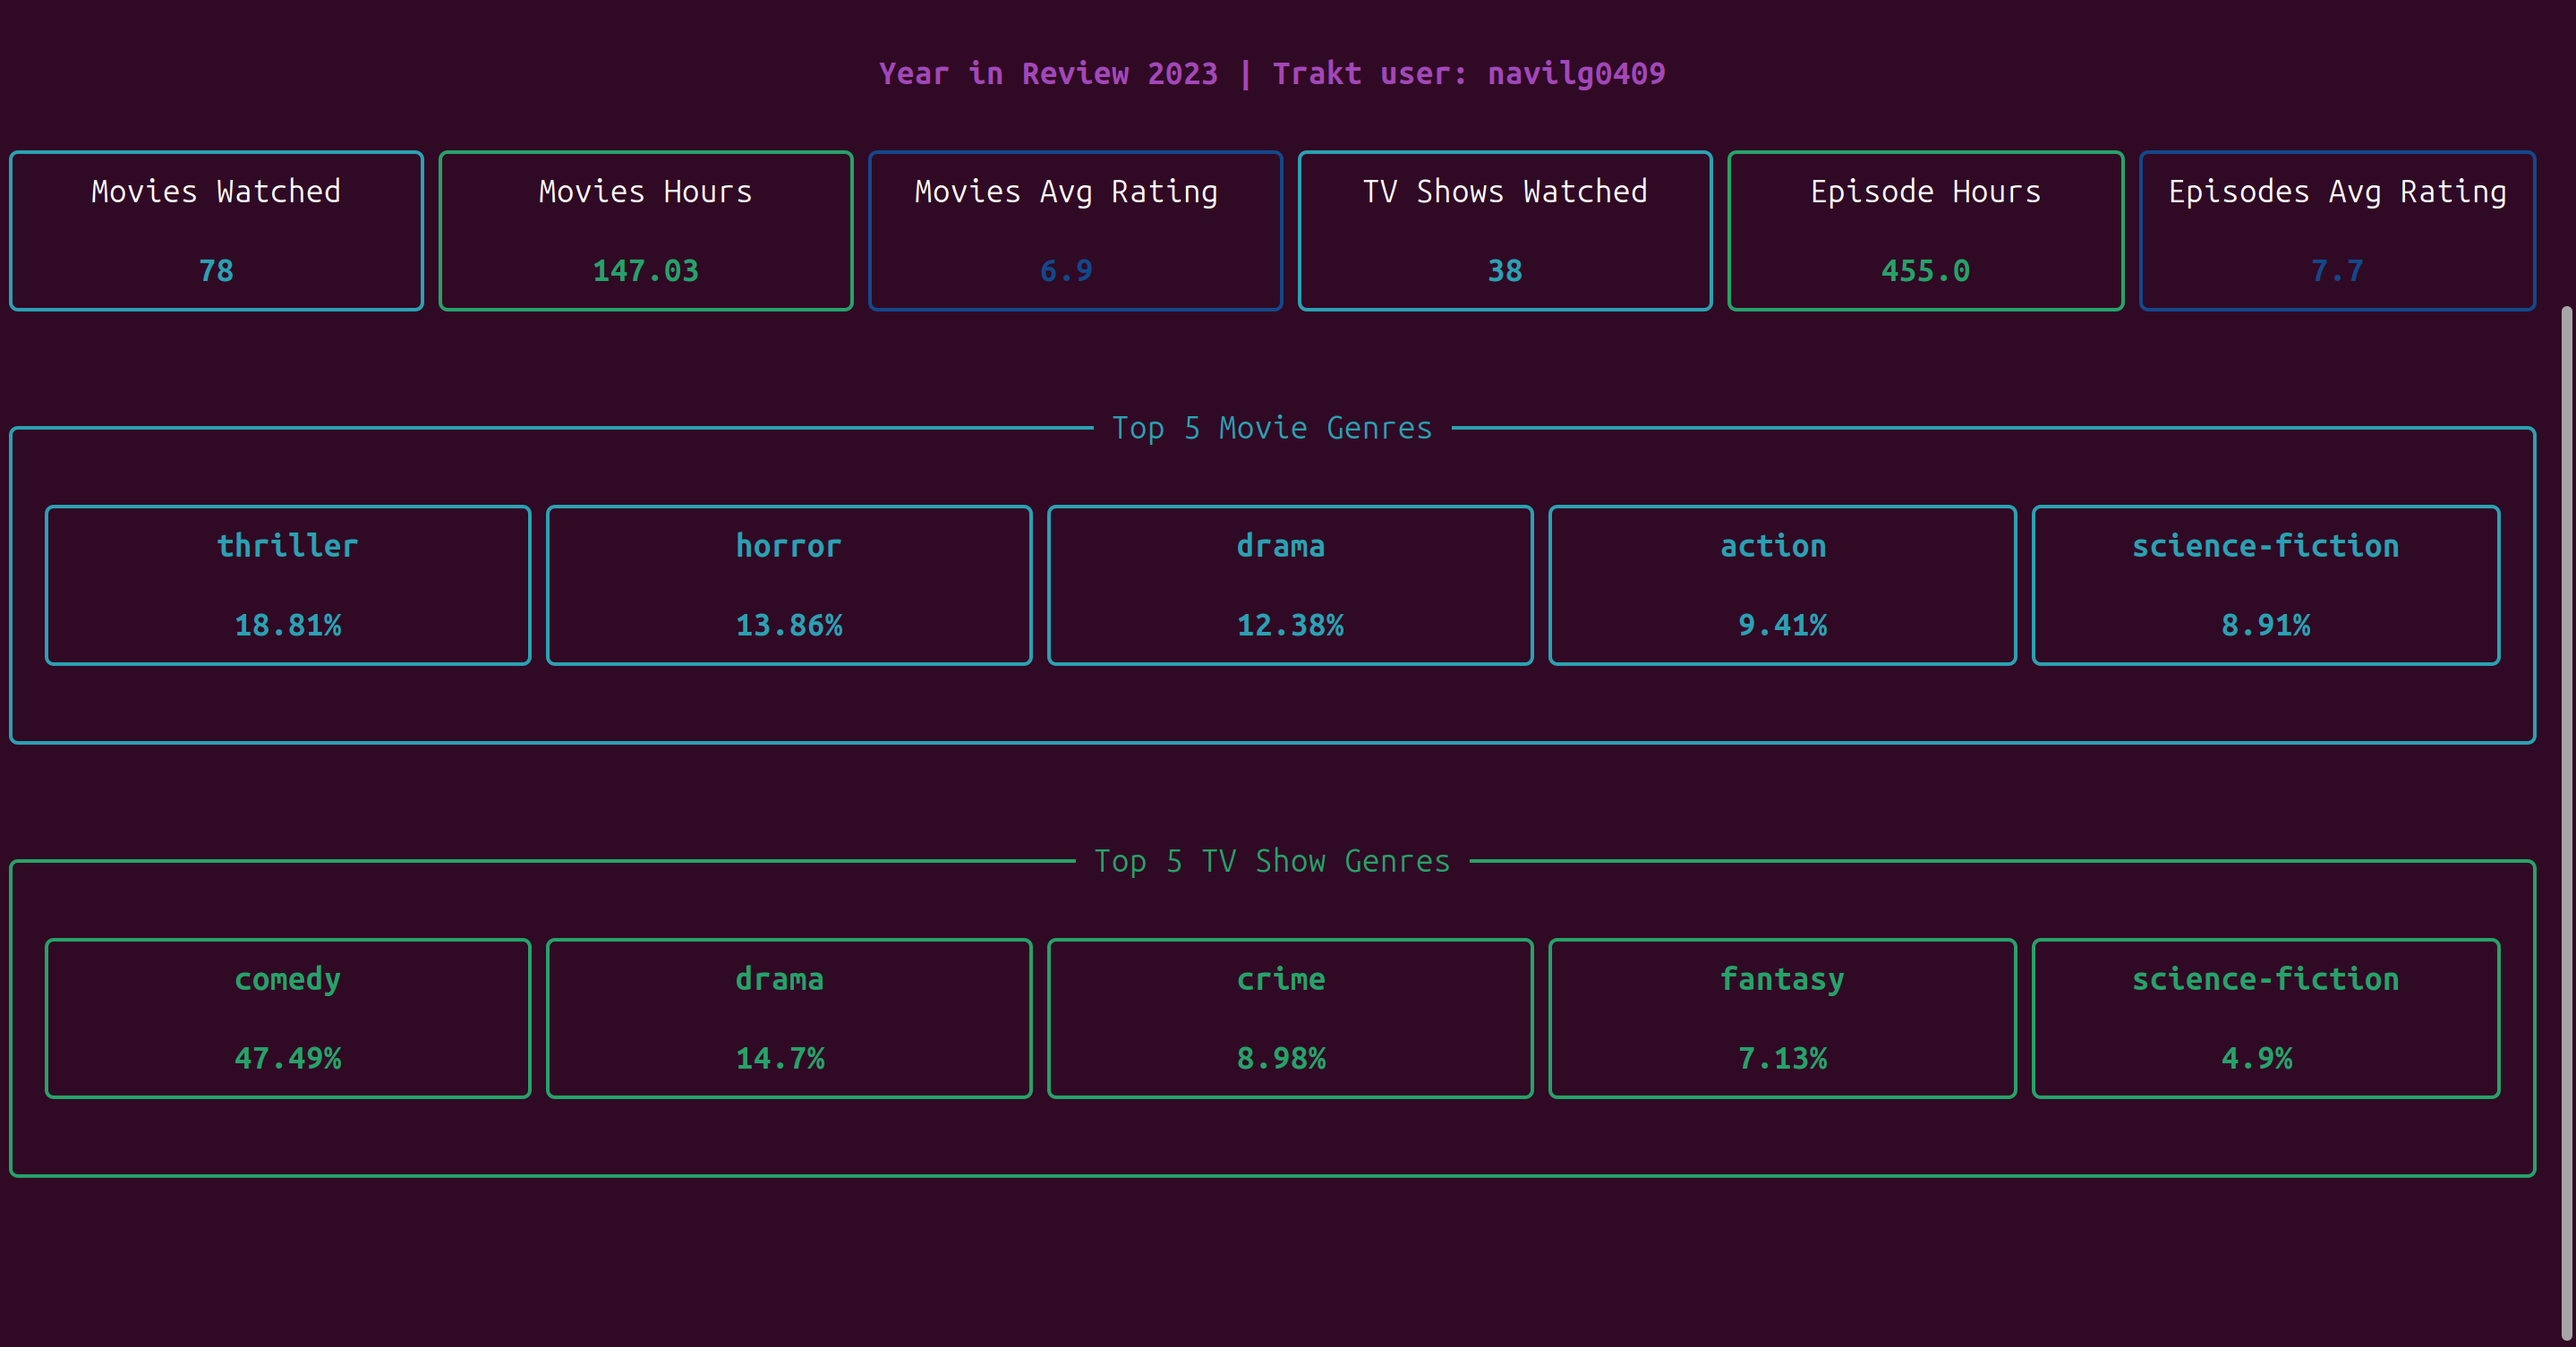
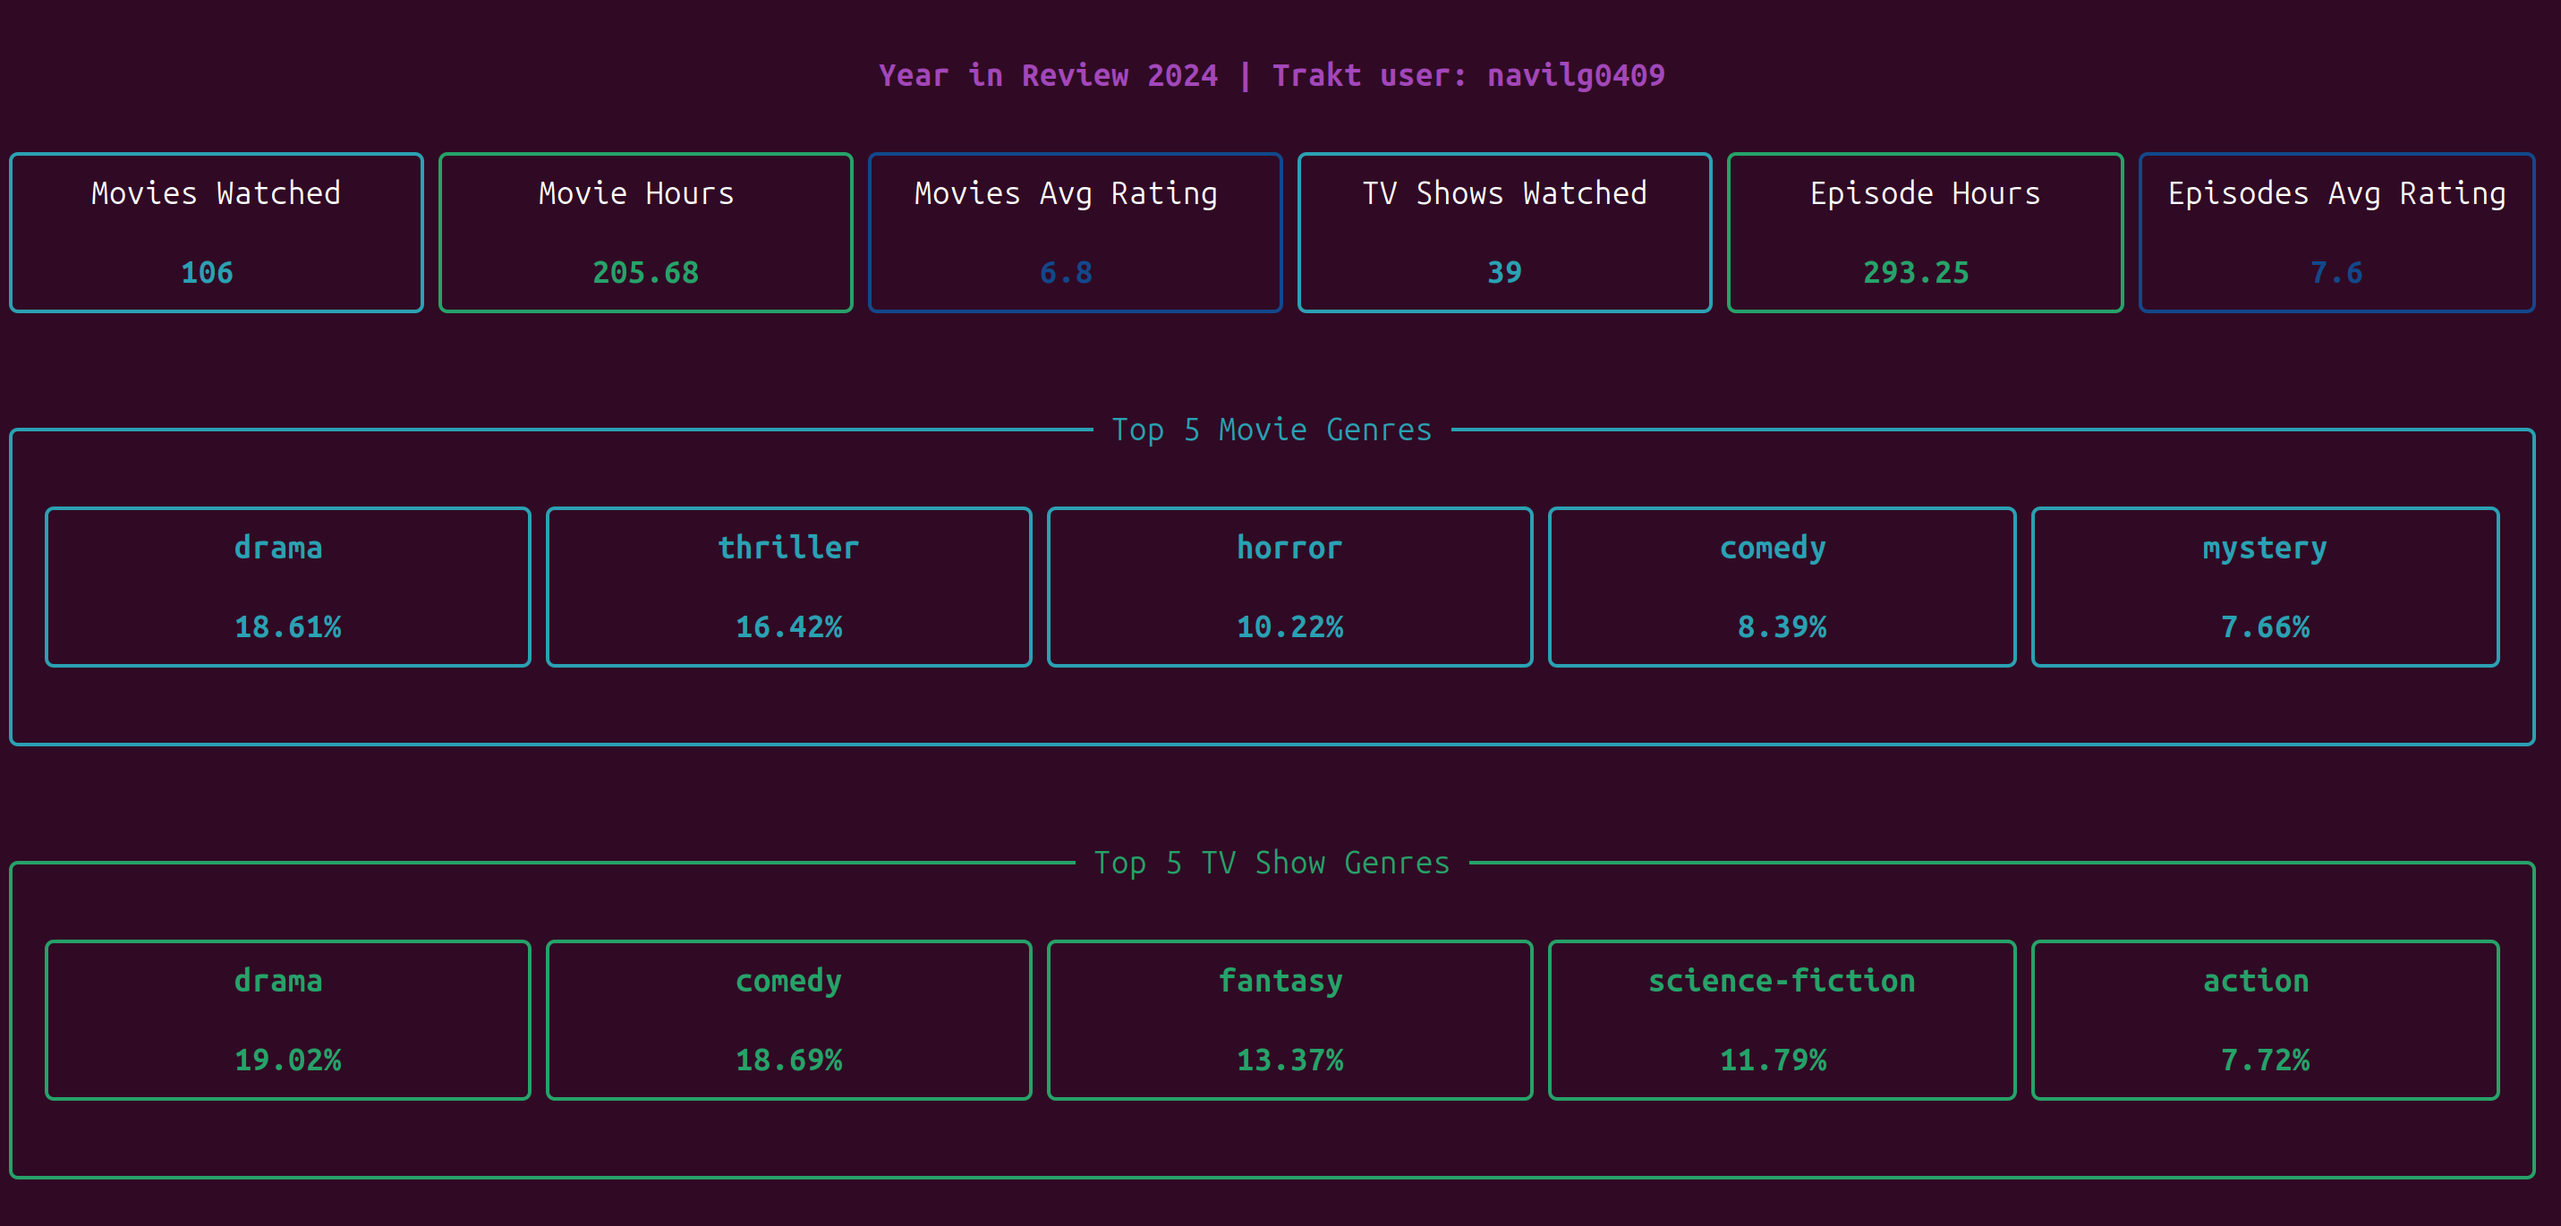
rephrase the prompts

diff --git a/generate.py b/generate.py
@@ -228,9 +228,10 @@ def fetch_stats_from_local():
 def fetch_stats_from_trakt():
     # Fetch and analyze the history
     print("\n")
-    print('Generating Year in Review for', year+'. It may take few minutes depending on size of your watch history...')
-    print('Maximum 180 movies/episodes are analyzed in 1 minute to honor trakt api rate limit.')
+    print(f"Preparing your Year in Review for {year}. This might take a few minutes, depending on the size of your watch history...")
+    print("Note: Up to 180 movies/episodes are processed per minute to comply with Trakt API rate limits.")
     print("\n")
+
     history = fetch_trakt_history(username, start_date, end_date)
     with open("trakt-history-"+year+".json", "w") as file:
         file.write(json.dumps(history, indent=4))
@@ -284,7 +285,7 @@ else:
 console = Console()
 
 # Heading
-heading = Align.center("[bold magenta]Year in Review "+year+" | Trakt user: "+username+"[/bold magenta]", vertical="middle")
+heading = Align.center(f"[bold magenta]Year in Review {year} | Trakt user: {username}[/bold magenta]", vertical="middle")
 
 # Four Cards
 cards_table = Table.grid(expand=True)
@@ -296,12 +297,12 @@ cards_table.add_column(justify="center", ratio=1)
 cards_table.add_column(justify="center", ratio=1)
 
 cards_table.add_row(
-    Panel("Movies Watched\n\n[bold cyan]"+str(stats['movies'])+"[/bold cyan]", border_style="cyan"),
-    Panel("Movies Hours\n\n[bold green]"+str(stats['movie_hours'])+"[/bold green]", border_style="green"),
-    Panel("Movies Avg Rating\n\n[bold blue]"+str(stats['movies_average_rating'])+"[/bold blue]", border_style="blue"),
-    Panel("TV Shows Watched\n\n[bold cyan]"+str(stats['tv_shows'])+"[/bold cyan]", border_style="cyan"),
-    Panel("Episode Hours\n\n[bold green]"+str(stats['tv_hours'])+"[/bold green]", border_style="green"),
-    Panel("Episodes Avg Rating\n\n[bold blue]"+str(stats['episodes_average_rating'])+"[/bold blue]", border_style="blue")
+    Panel(f"Movies Watched\n\n[bold cyan]{stats['movies']}[/bold cyan]", border_style="cyan"),
+    Panel(f"Movie Hours\n\n[bold green]{stats['movie_hours']}[/bold green]", border_style="green"),
+    Panel(f"Movies Avg Rating\n\n[bold blue]{stats['movies_average_rating']}[/bold blue]", border_style="blue"),
+    Panel(f"TV Shows Watched\n\n[bold cyan]{stats['tv_shows']}[/bold cyan]", border_style="cyan"),
+    Panel(f"Episode Hours\n\n[bold green]{stats['tv_hours']}[/bold green]", border_style="green"),
+    Panel(f"Episodes Avg Rating\n\n[bold blue]{stats['episodes_average_rating']}[/bold blue]", border_style="blue")
 )
 
 
